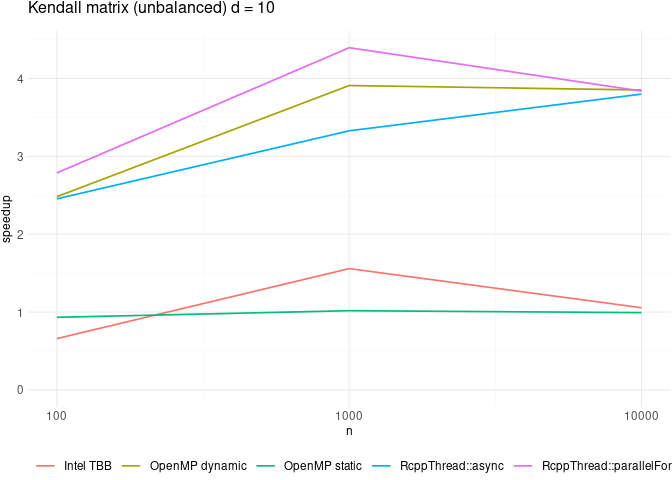
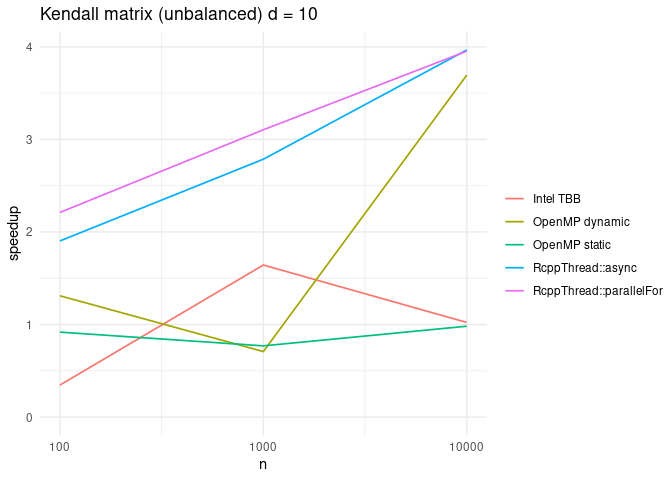
update benchmarks

diff --git a/benchmarks/benchmarks.md b/benchmarks/benchmarks.md
@@ -2,59 +2,30 @@ Graphs show speedup over single-threaded execution (higher is better)
 
 #### Libraries
 
-    library("tidyverse")
-
-    ## ── Attaching packages ─────────────────────────────────────── tidyverse 1.3.1 ──
-
-    ## ✔ ggplot2 3.3.6     ✔ purrr   0.3.4
-    ## ✔ tibble  3.1.8     ✔ dplyr   1.0.9
-    ## ✔ tidyr   1.2.0     ✔ stringr 1.4.0
-    ## ✔ readr   2.1.2     ✔ forcats 0.5.1
-
-    ## ── Conflicts ────────────────────────────────────────── tidyverse_conflicts() ──
-    ## ✖ dplyr::filter() masks stats::filter()
-    ## ✖ dplyr::lag()    masks stats::lag()
-
+    library("ggplot2")
+    library("dplyr")
+    library("tidyr")
     library("Rcpp")
     library("RcppParallel")
-
-    ## 
-    ## Attaching package: 'RcppParallel'
-
-    ## The following object is masked from 'package:Rcpp':
-    ## 
-    ##     LdFlags
-
     library("RcppThread")
-
-    ## 
-    ## Attaching package: 'RcppThread'
-
-    ## The following object is masked from 'package:RcppParallel':
-    ## 
-    ##     LdFlags
-
-    ## The following object is masked from 'package:Rcpp':
-    ## 
-    ##     LdFlags
-
-    library("ggthemes")
 
 #### Utilities
 
     Rcpp::sourceCpp(here::here("benchmarks/benchmarks.cpp"))
+
+    ##  -latomic -lpthread
+
     wait_for <- 5
 
     plot_df <- function(df, title = NULL) {
       p <- df %>%
-        pivot_longer(-n, "call") %>%
+        pivot_longer(-n, names_to = "call") %>%
         ggplot(aes(n, value, color = call)) +
         geom_line(size = 0.6) +
         expand_limits(y = 0) +
-        labs(color = "", linetype = "") +
-        naglr::theme_naglr(plot_title_size = 12) +
+        labs(color = "") +
+        theme_minimal() +
         theme(legend.margin = margin(1, 1, 1, 1)) +
-        theme(legend.position = "bottom") +
         scale_x_log10() +
         ylab("speedup") +
         labs(title = title)
@@ -70,6 +41,12 @@ Graphs show speedup over single-threaded execution (higher is better)
     df <- cbind(data.frame(n = rev(ns)), as.data.frame(res[, -1]))
     plot_df(df, "empty jobs")
 
+    ## Warning: Using `size` aesthetic for lines was deprecated in ggplot2 3.4.0.
+    ## ℹ Please use `linewidth` instead.
+    ## This warning is displayed once per session.
+    ## Call `lifecycle::last_lifecycle_warnings()` to see where this warning was
+    ## generated.
+
 ![](benchmarks_files/figure-markdown_strict/unnamed-chunk-3-1.png)
 
     ggsave(here::here("benchmarks/benchEmptyThread.pdf"), width = 7.5, height = 3)
@@ -84,17 +61,6 @@ Graphs show speedup over single-threaded execution (higher is better)
 ![](benchmarks_files/figure-markdown_strict/unnamed-chunk-4-1.png)
 
     ggsave(here::here("benchmarks/benchSqrt.pdf"), width = 7.5, height = 3)
-
-### compute and write 1000 square roots per thread
-
-    ns <- 10^(2:6)
-    res <- benchSqrtWrite(rev(ns), wait_for)
-    df <- cbind(data.frame(n = rev(ns)), as.data.frame(res[, -1]))
-    plot_df(df, "1000x sqrt modify inplace")
-
-![](benchmarks_files/figure-markdown_strict/unnamed-chunk-5-1.png)
-
-    ggsave(here::here("benchmarks/benchSqrtWrite.pdf"), width = 7.5, height = 3)
 
 ### kernel density estimation (d = 10)
 
